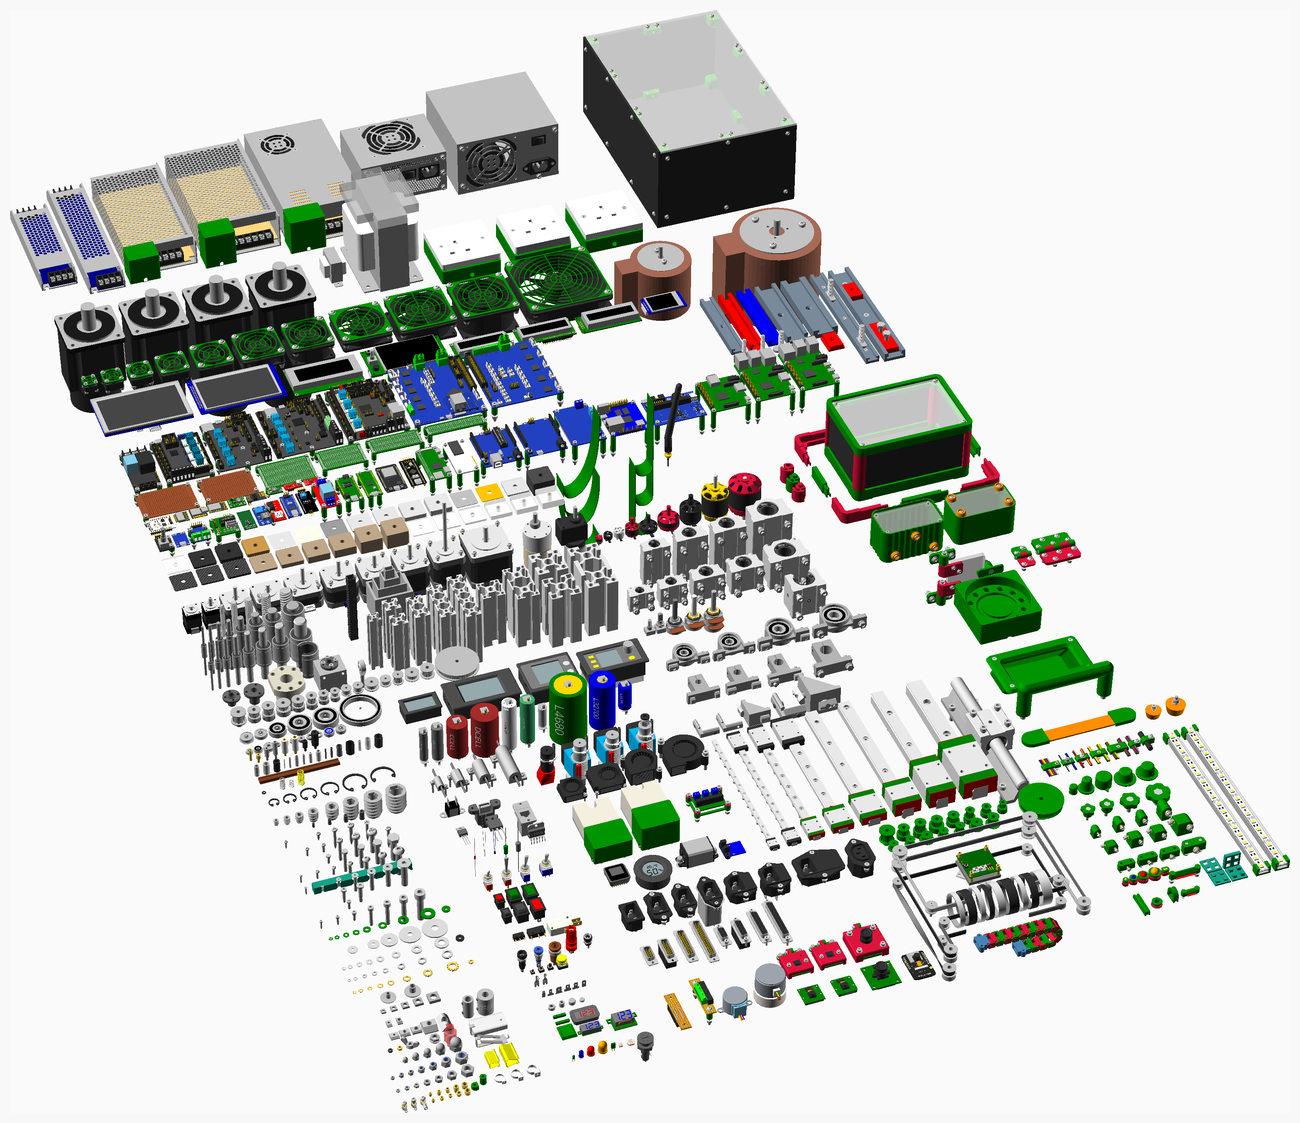
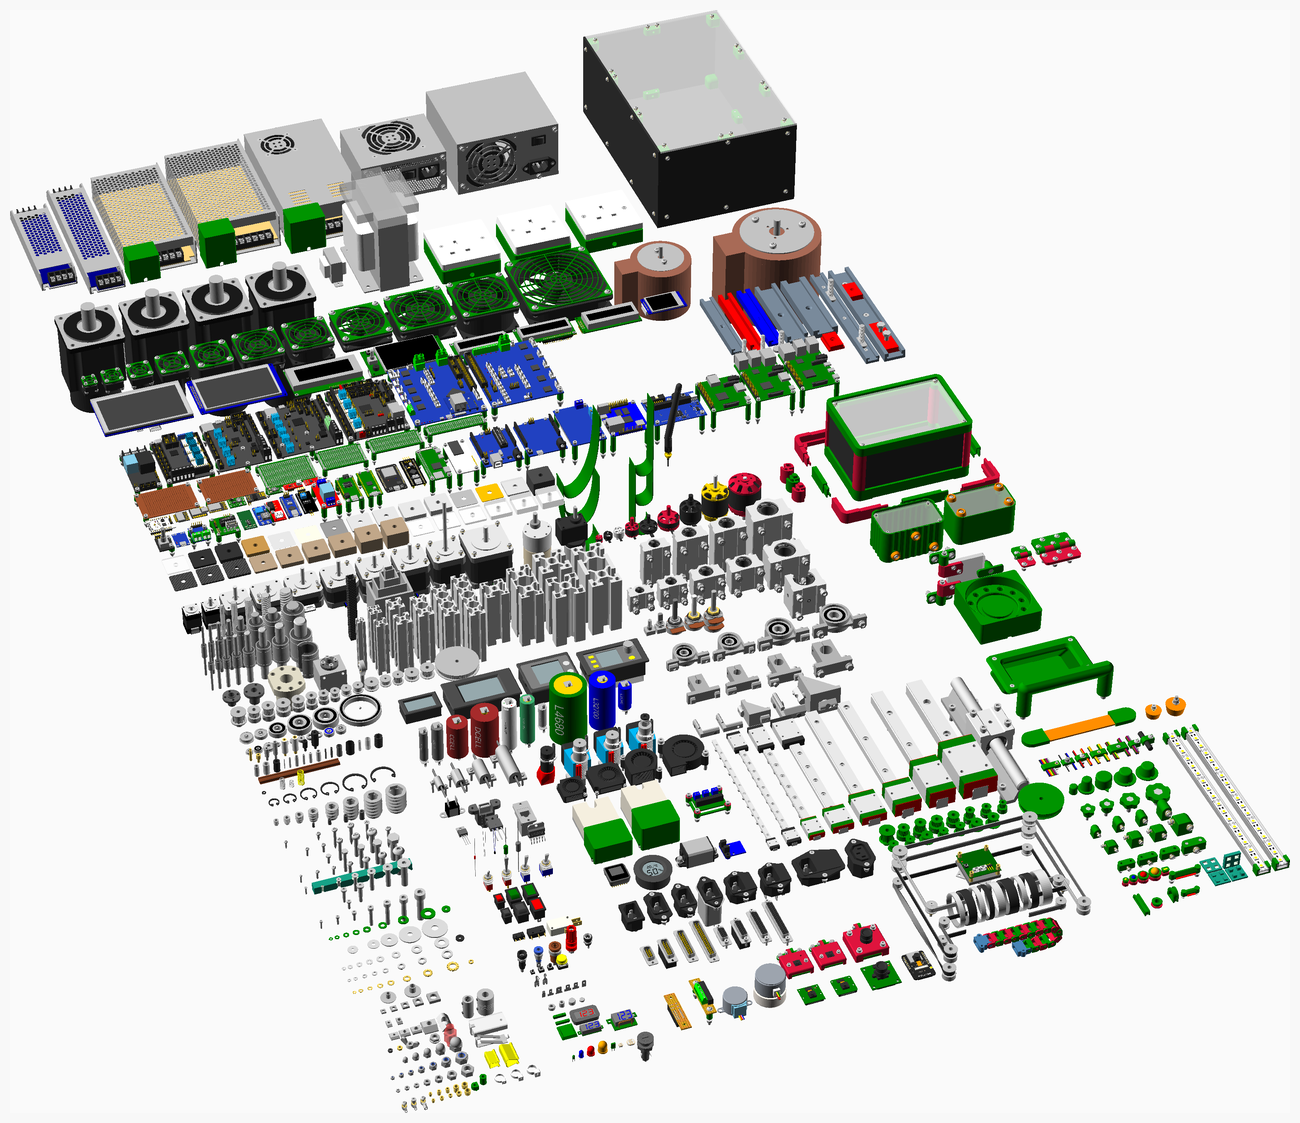
Updated images and readme.

Changed region(s): [[0.2769, 0.4675, 0.4923, 0.6233]]

diff --git a/readme.md b/readme.md
@@ -1210,24 +1210,26 @@ Aluminium  extrusion.
 ### Modules
 | Module | Description |
 |:--- |:--- |
-| `extrusion(type, length, center = true, cornerHole = false)` | Draw the specified extrusion |
+| `extrusion(type, length, center = true, cornerHole = true)` | Draw the specified extrusion |
 
 ![extrusions](tests/png/extrusions.png)
 
 ### Vitamins
 | Qty | Module call | BOM entry |
 | ---:|:--- |:---|
-|   1 | `extrusion(E1515, 80)` |  Extrusion E1515 x 80mm |
-|   1 | `extrusion(E2020, 80)` |  Extrusion E2020 x 80mm |
-|   1 | `extrusion(E2020t, 80)` |  Extrusion E2020t x 80mm |
-|   1 | `extrusion(E2040, 80)` |  Extrusion E2040 x 80mm |
-|   1 | `extrusion(E2060, 80)` |  Extrusion E2060 x 80mm |
-|   1 | `extrusion(E2080, 80)` |  Extrusion E2080 x 80mm |
+|   1 | `extrusion(E1515, 80, cornerHole = true)` |  Extrusion E1515 x 80mm |
+|   1 | `extrusion(E2020, 80, cornerHole = true)` |  Extrusion E2020 x 80mm |
+|   1 | `extrusion(E2020t, 80, cornerHole = true)` |  Extrusion E2020t x 80mm |
+|   1 | `extrusion(E2040, 80, cornerHole = true)` |  Extrusion E2040 x 80mm |
+|   1 | `extrusion(E2060, 80, cornerHole = true)` |  Extrusion E2060 x 80mm |
+|   1 | `extrusion(E2080, 80, cornerHole = true)` |  Extrusion E2080 x 80mm |
 |   1 | `extrusion(E3030, 80, cornerHole = true)` |  Extrusion E3030 x 80mm |
 |   1 | `extrusion(E3060, 80, cornerHole = true)` |  Extrusion E3060 x 80mm |
 |   1 | `extrusion(E4040, 80, cornerHole = true)` |  Extrusion E4040 x 80mm |
 |   1 | `extrusion(E4040t, 80, cornerHole = true)` |  Extrusion E4040t x 80mm |
 |   1 | `extrusion(E4080, 80, cornerHole = true)` |  Extrusion E4080 x 80mm |
+|   1 | `extrusion(Makerbeam, 80, cornerHole = true)` |  Extrusion Makerbeam x 80mm |
+|   1 | `extrusion(MakerbeamXL, 80, cornerHole = true)` |  Extrusion MakerbeamXL x 80mm |
 
 
 <a href="#top">Top</a>
@@ -4303,8 +4305,8 @@ SK shaft support brackets
 ### Vitamins
 | Qty | Module call | BOM entry |
 | ---:|:--- |:---|
-|   2 | `extrusion(E2020, 20)` |  Extrusion E2020 x 20mm |
-|   2 | `extrusion(E3030, 20)` |  Extrusion E3030 x 20mm |
+|   2 | `extrusion(E2020, 20, cornerHole = true)` |  Extrusion E2020 x 20mm |
+|   2 | `extrusion(E3030, 20, cornerHole = true)` |  Extrusion E3030 x 20mm |
 |   2 | `sliding_t_nut(M4_hammer_nut)` |  Nut M4 hammer |
 |   2 | `sliding_t_nut(M4_sliding_t_nut)` |  Nut M4 sliding T |
 |   2 | `sliding_t_nut(M5_sliding_t_nut)` |  Nut M5 sliding T |
